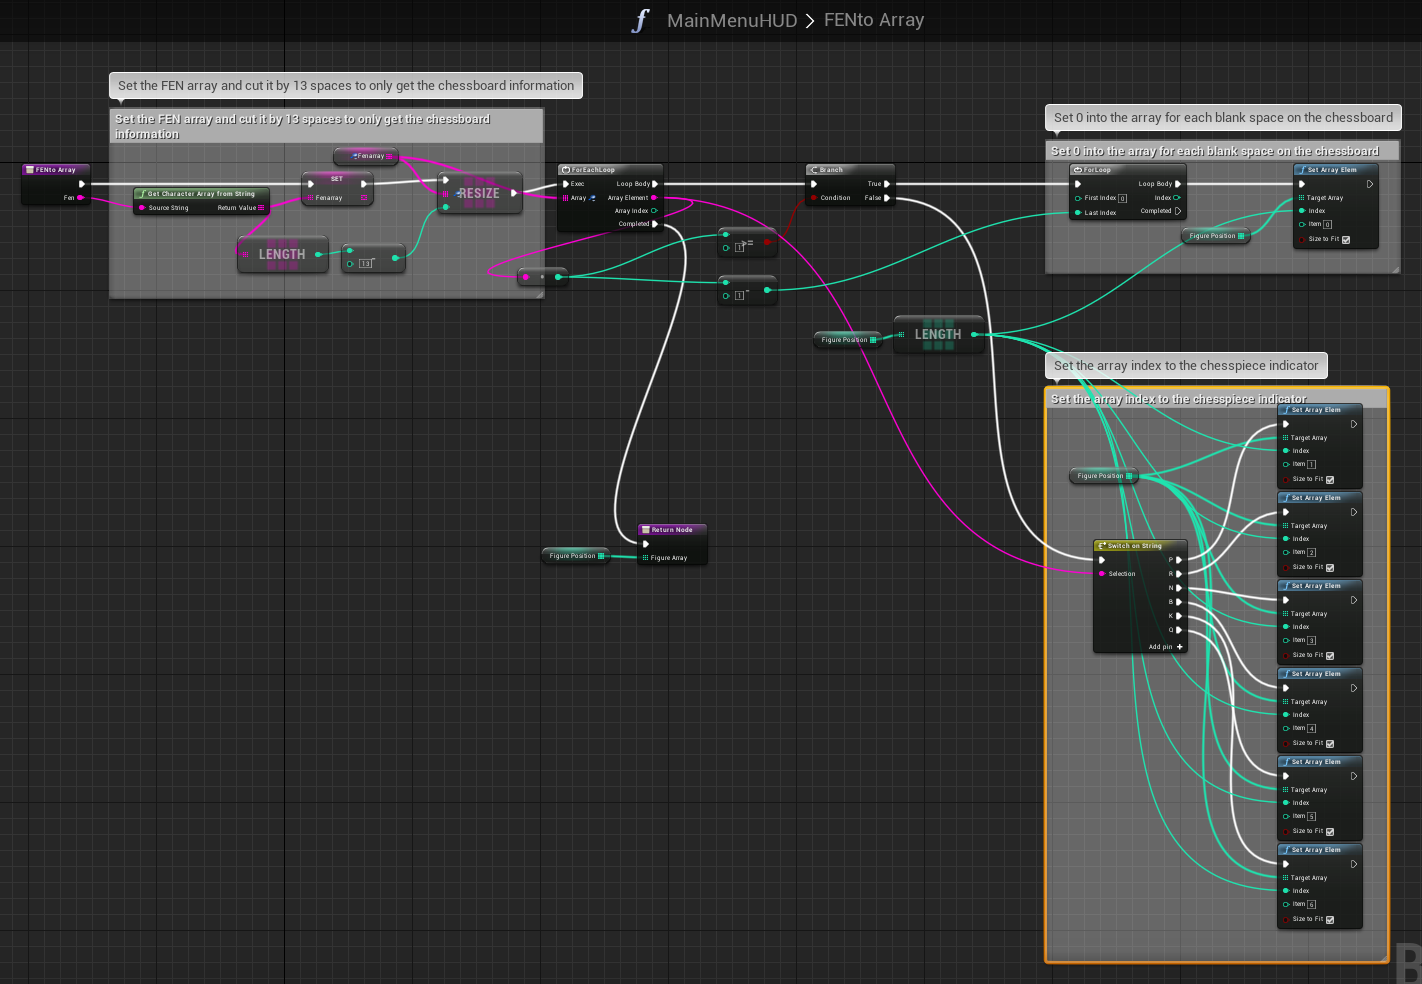
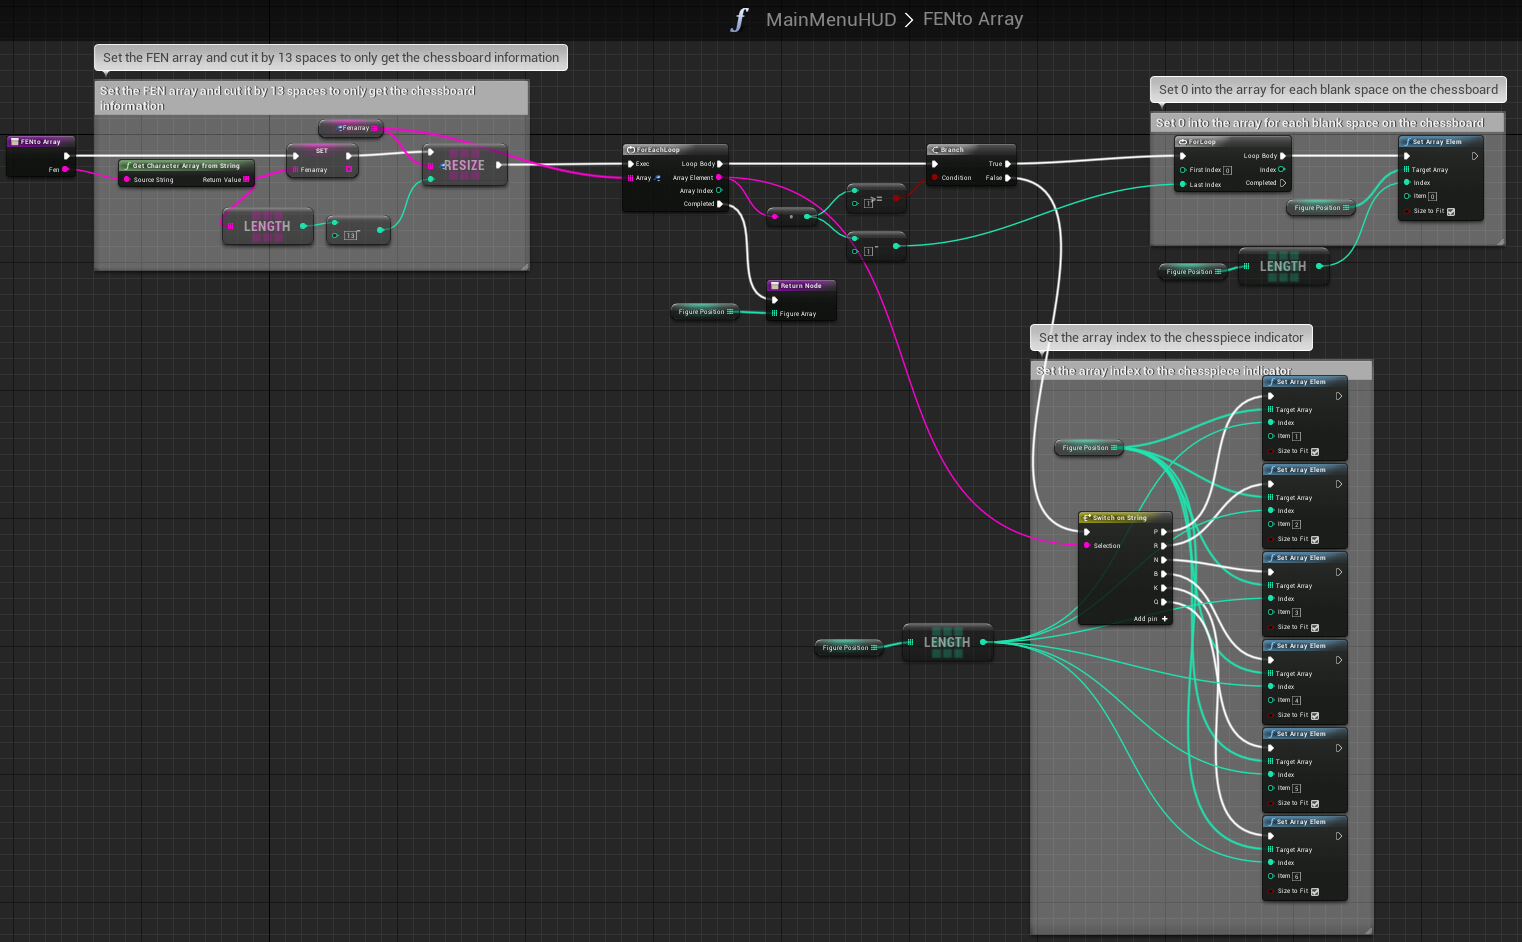
Frontend aktualisiert
+ Neue Bilder
- Alte Bilder gelöscht

~ Code in Code Feld geschrieben anstatt Bild
+ Themen Unterschrift unter jede Überschrift
~ Vortragpart über die Farben verschoben

Changed region(s): [[0.0, 0.0308, 1.0, 1.0], [0.4332, 0.0, 0.6807, 0.0308], [0.3713, 0.5234, 0.4951, 0.5849]]

diff --git a/presentations/sw/slides/frontend.md b/presentations/sw/slides/frontend.md
@@ -1,35 +1,41 @@
+class: center, middle
 # Frontend - Unreal Engine
 
-## Technologien
+### Technologien
 - Unreal Engine Version 4.19.2
-- SocketIO Plugin v0.8.0
+- SocketIO Plugin für Unreal v0.8.0
 - Visual Studio 2017
 
 ---
 
 ## C++ Code Beispiel
+### Frontend - Unreal Engine
 - Login Widget
 - Funktionen sind über die Blueprint aufrufbar
-<img src="images/frontend/LoginWidgetClass.png" width="95%" />
+
+```c++
+UCLASS()
+class DEEPGREEN_API ULoginWidget : public UUserWidget
+{
+	GENERATED_BODY()
+	
+	public:
+	UFUNCTION(BlueprintCallable, Category = "Login")
+		static int checkCredentials(FString name, FString password, FString token);
+
+	UFUNCTION(BlueprintCallable, Category = "Register")
+		static int registerAccount(FString name, FString password, FString email);
+		static int getGuestAccount();
+	
+	
+};
+```
 
 ---
 
 ## Unreal Engine Blueprints
-<img src="images/frontend/FigurenBewegenBP.png" width="100%" />
+### Frontend - Unreal Engine
 
----
-
-<img src="images/frontend/IndexPositionMakro.png" width="100%" />
-
----
-
-<img src="images/frontend/PositionMiddleMakro.png" width="100%" />
-
----
-
-<img src="images/frontend/GetPositionMakro.png" width="100%" />
-
----
 
 ### Die Kunst hinter den Farben
 - Weiß -> Programmablauf
@@ -39,3 +45,25 @@
 - Rot -> Boolean
 - Pink -> String
 - Blau -> Objekte
+
+---
+## FEN String Konvertierung
+### Frontend - Unreal Engine
+<img src="images/frontend/FENtoArray.png" width="100%" />
+
+---
+## FEN String zu Array
+### Frontend - Unreal Engine
+<img src="images/frontend/FENtoArray1.png" width="100%" />
+
+---
+## FEN String leere Felder
+### Frontend - Unreal Engine
+<img src="images/frontend/FENtoArray2.png" width="100%" />
+
+---
+## FEN String Figuren
+### Frontend - Unreal Engine
+<img src="images/frontend/FENtoArray3.png" width="100%" />
+
+
